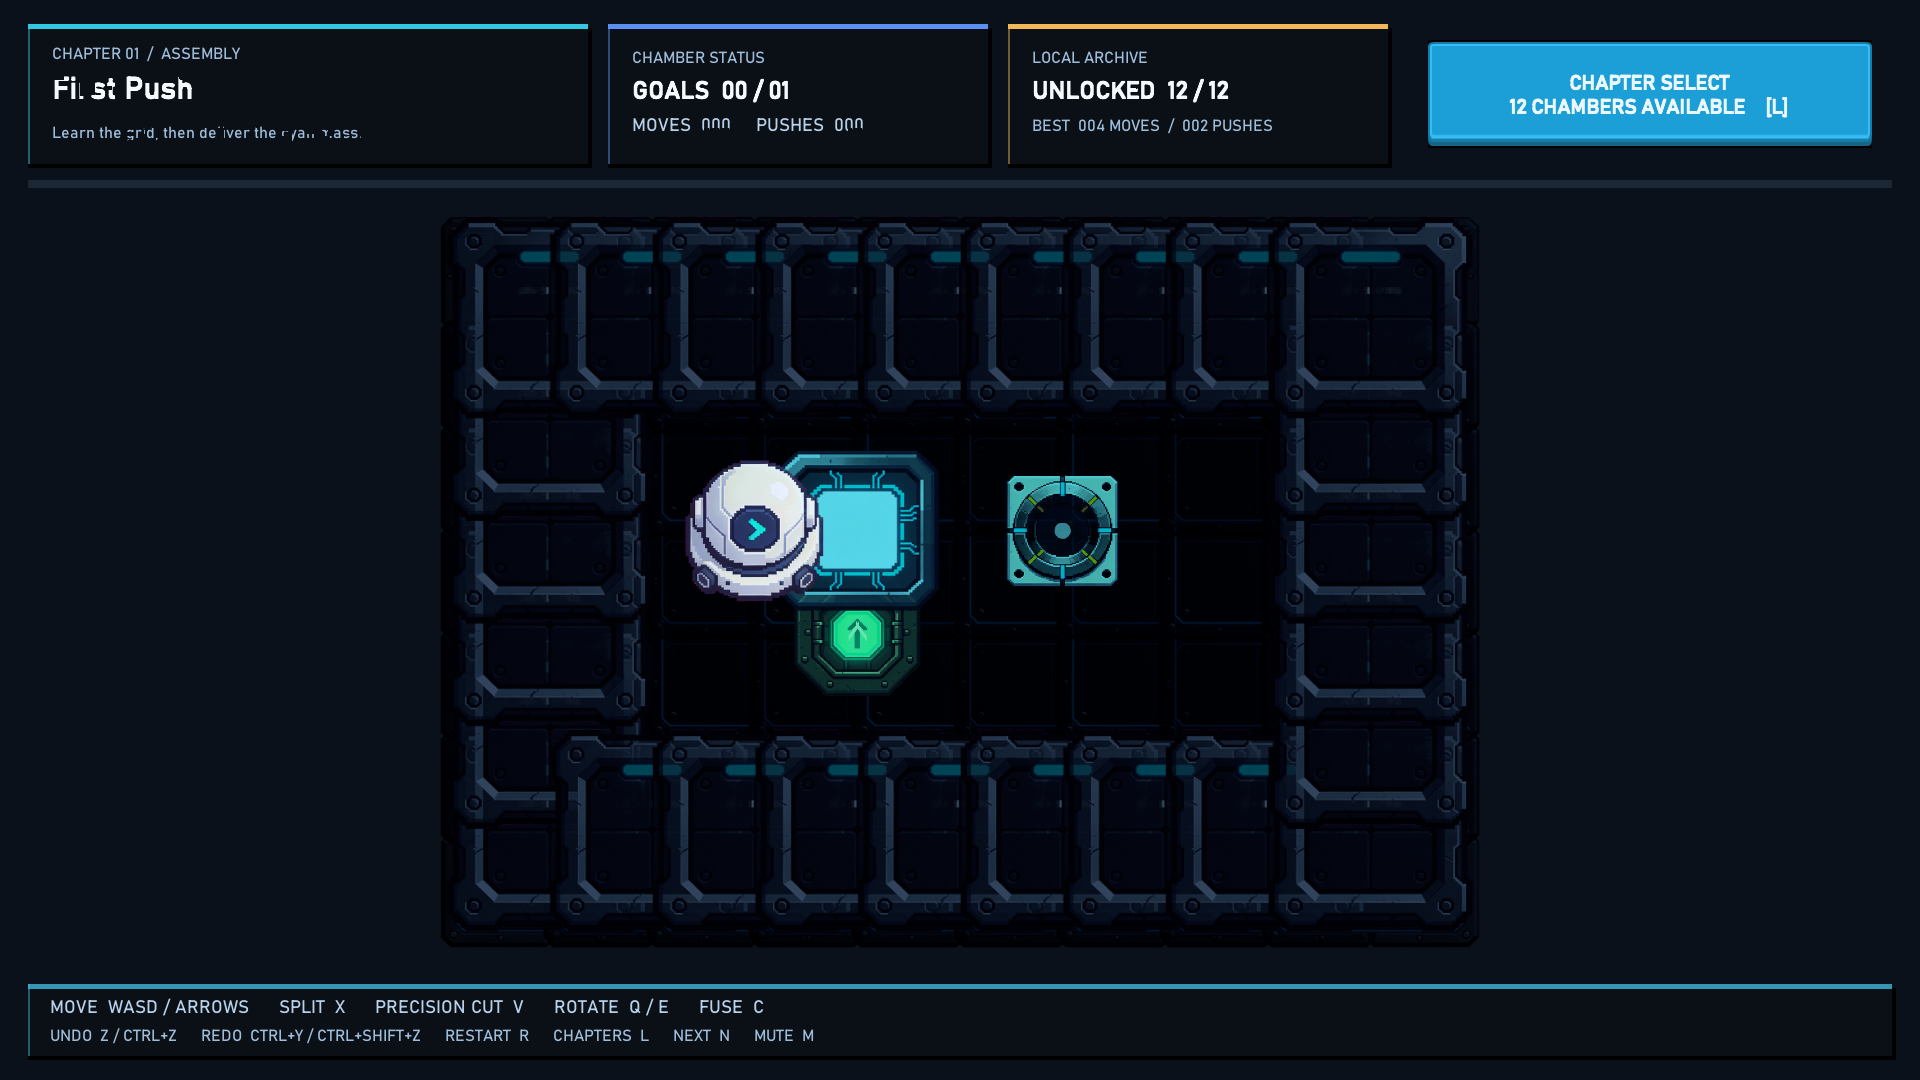
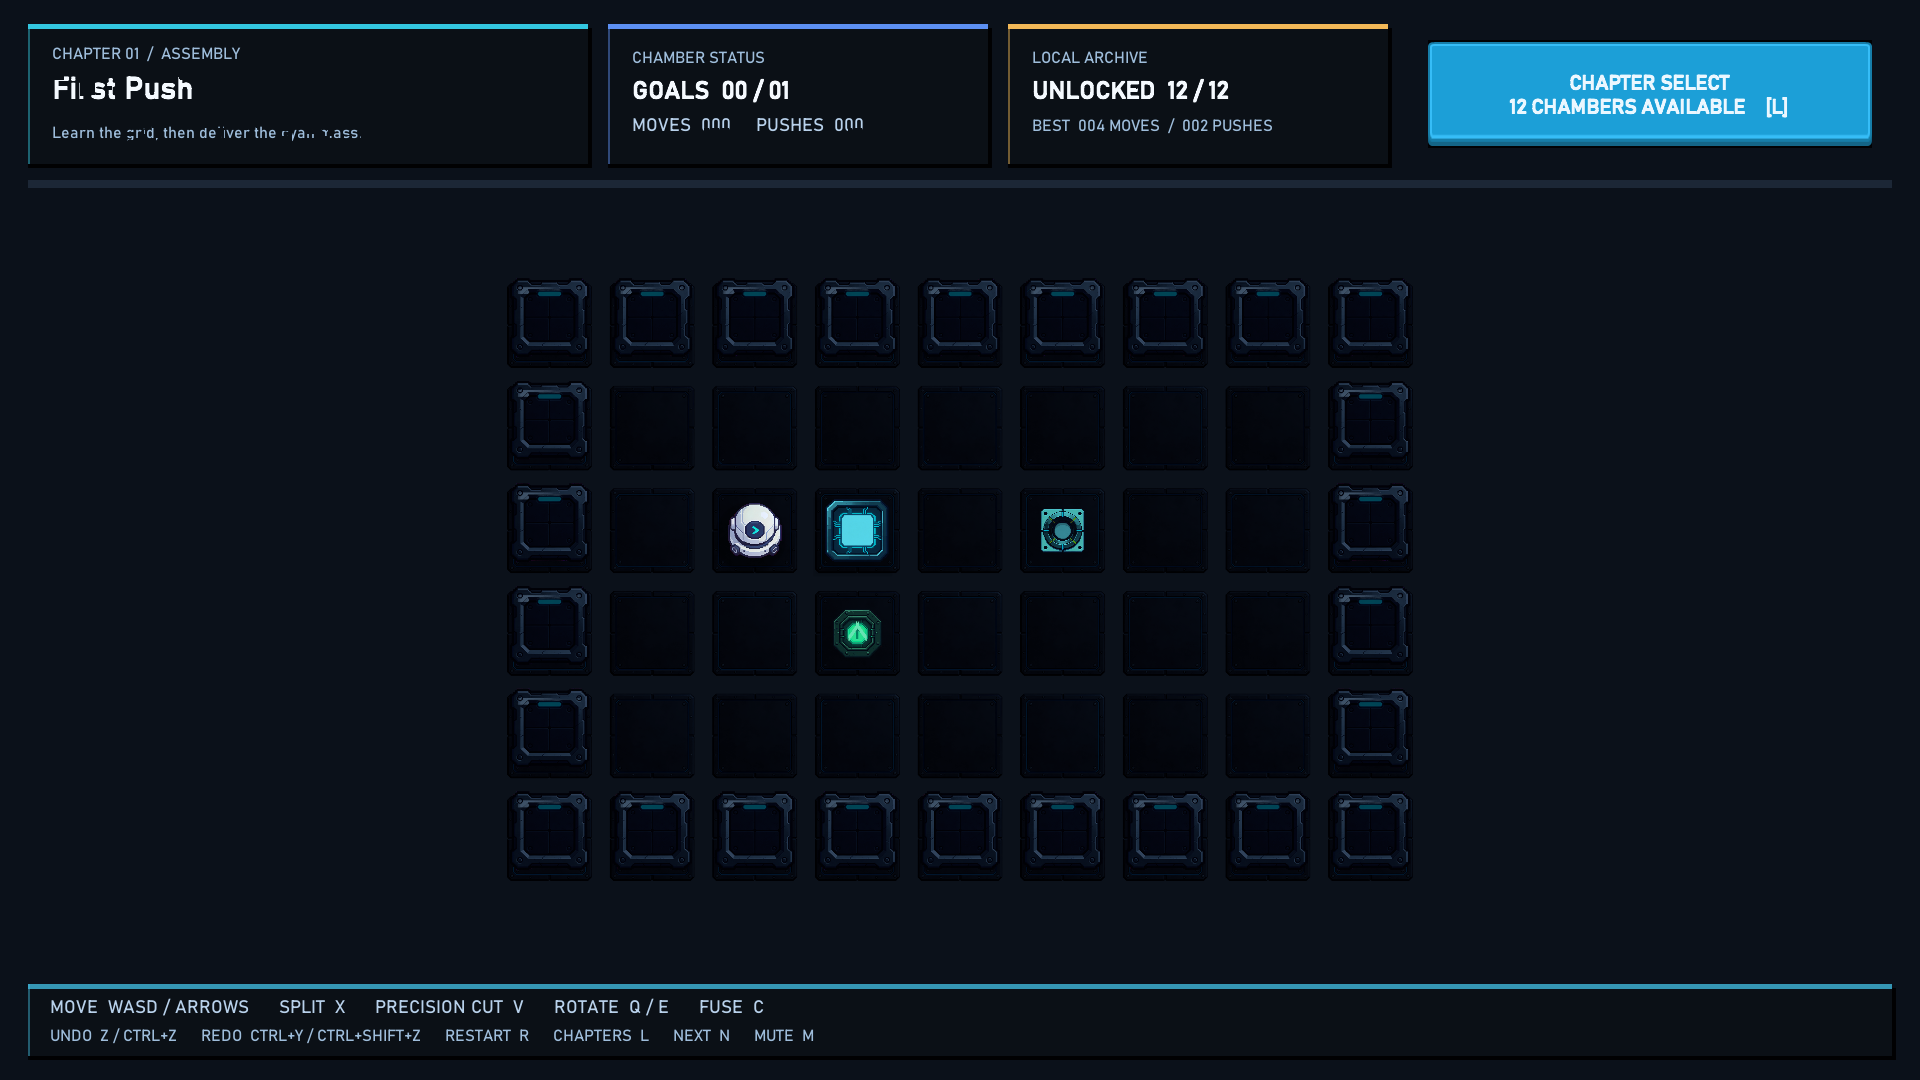
fix: align ai sprites to one grid cell

Changed region(s): [[0.2188, 0.2139, 0.7812, 0.8556], [0.75, 0.5806, 0.7812, 0.6417], [0.75, 0.7028, 0.7812, 0.7333]]

diff --git a/Assets/Sokoban/Editor/DefaultArtThemeBuilder.cs b/Assets/Sokoban/Editor/DefaultArtThemeBuilder.cs
@@ -29,13 +29,13 @@ namespace CompoundBox.Editor
             var error = AssetDatabase.LoadAssetAtPath<AudioClip>(KenneyRoot + "/Audio/error_001.ogg");
             var toggle = AssetDatabase.LoadAssetAtPath<AudioClip>(KenneyRoot + "/Audio/toggle_001.ogg");
             var themeRoot = "Assets/Sokoban/Art/Themes/Foundry";
-            var floorTile = LoadSprite(themeRoot + "/floor-tile.png");
-            var wallTile = LoadSprite(themeRoot + "/wall-tile.png");
-            var matterTile = LoadSprite(themeRoot + "/matter-block.png");
-            var playerTile = LoadSprite(themeRoot + "/player-unit.png");
-            var goalTile = LoadSprite(themeRoot + "/goal-socket.png");
-            var portalTile = LoadSprite(themeRoot + "/portal-emitter.png");
-            var exitTile = LoadSprite(themeRoot + "/exit-gate.png");
+            var floorTile = LoadSprite(themeRoot + "/floor-tile.png", 256f);
+            var wallTile = LoadSprite(themeRoot + "/wall-tile.png", 256f);
+            var matterTile = LoadSprite(themeRoot + "/matter-block.png", 256f);
+            var playerTile = LoadSprite(themeRoot + "/player-unit.png", 256f);
+            var goalTile = LoadSprite(themeRoot + "/goal-socket.png", 256f);
+            var portalTile = LoadSprite(themeRoot + "/portal-emitter.png", 256f);
+            var exitTile = LoadSprite(themeRoot + "/exit-gate.png", 256f);
 
             var theme = AssetDatabase.LoadAssetAtPath<ArtThemeAsset>(ThemePath);
             if (theme == null)
@@ -97,13 +97,13 @@ namespace CompoundBox.Editor
             return AssetDatabase.LoadAssetAtPath<Texture2D>(path);
         }
 
-        private static Sprite LoadSprite(string path)
+        private static Sprite LoadSprite(string path, float pixelsPerUnit = 100f)
         {
-            ConfigureSpriteImporter(path);
+            ConfigureSpriteImporter(path, pixelsPerUnit);
             return AssetDatabase.LoadAssetAtPath<Sprite>(path);
         }
 
-        private static void ConfigureSpriteImporter(string path)
+        private static void ConfigureSpriteImporter(string path, float pixelsPerUnit = 100f)
         {
             var importer = AssetImporter.GetAtPath(path) as TextureImporter;
             if (importer == null)
@@ -113,7 +113,7 @@ namespace CompoundBox.Editor
 
             importer.textureType = TextureImporterType.Sprite;
             importer.spriteImportMode = SpriteImportMode.Single;
-            importer.spritePixelsPerUnit = 100f;
+            importer.spritePixelsPerUnit = pixelsPerUnit;
             importer.alphaIsTransparency = true;
             importer.mipmapEnabled = false;
             importer.filterMode = FilterMode.Bilinear;
